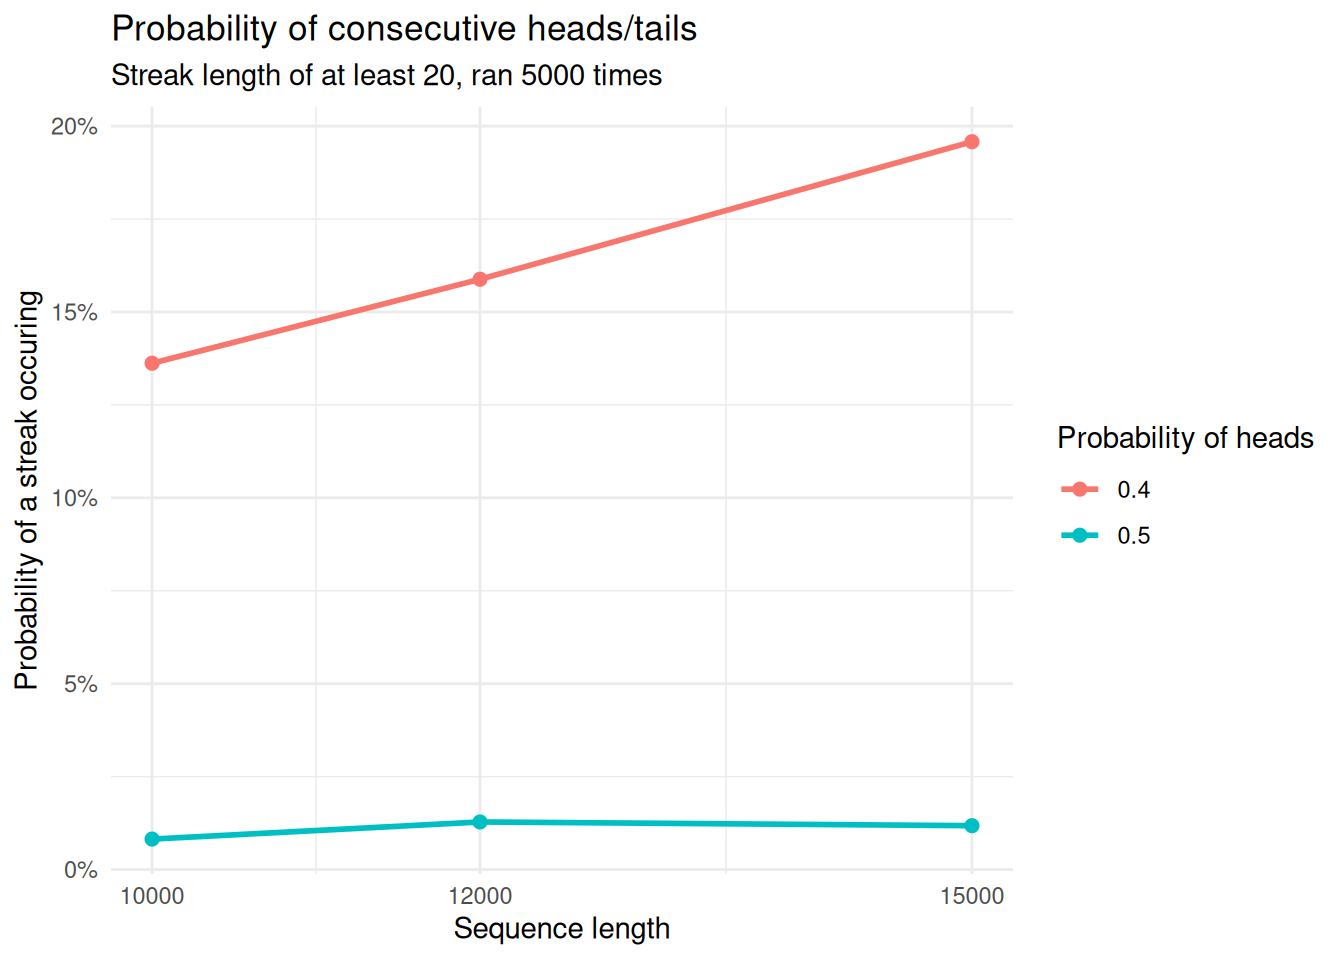
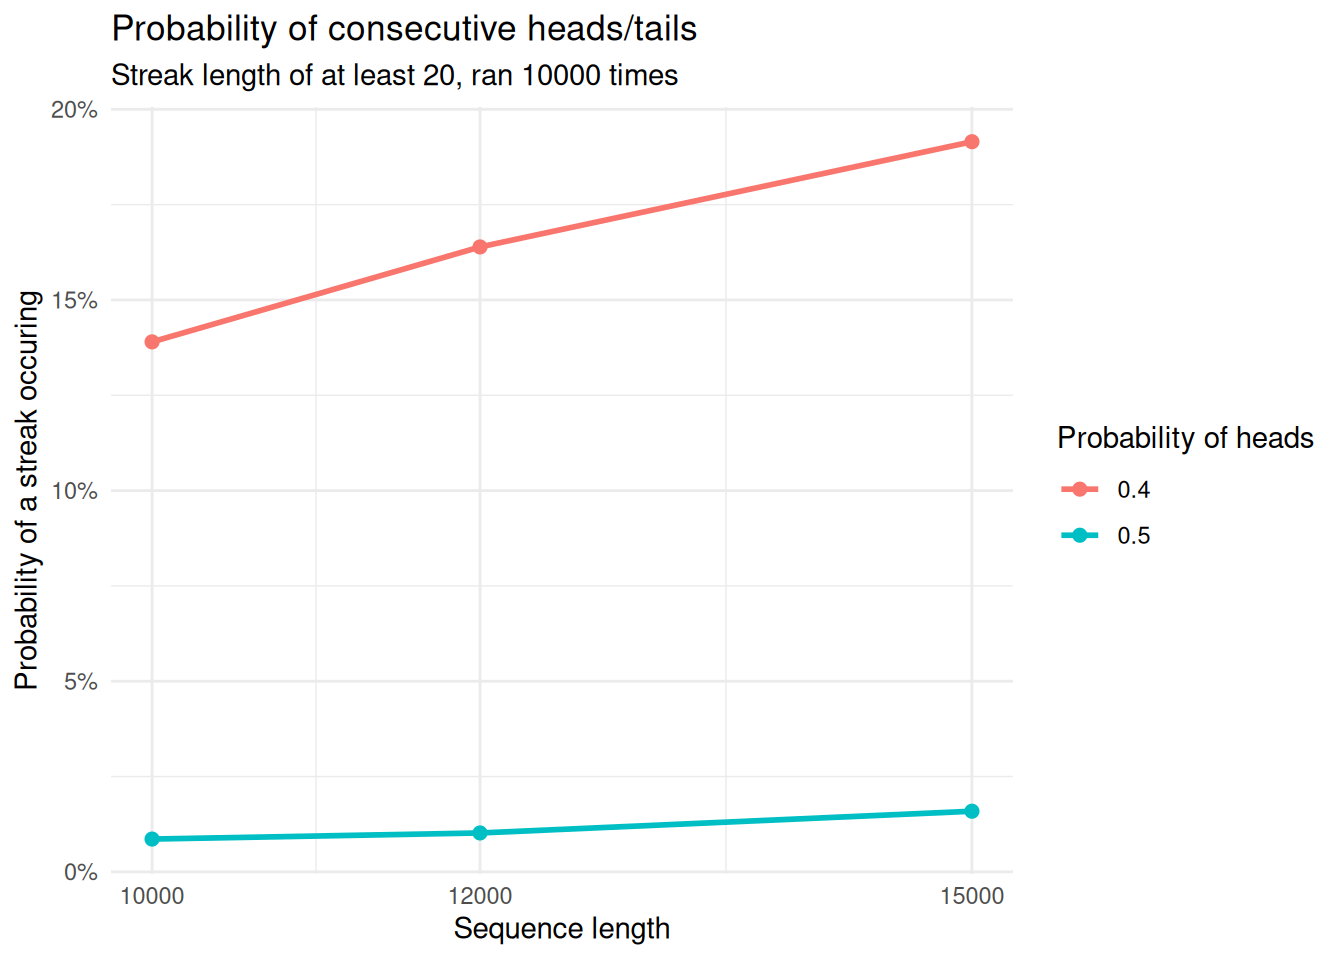
increased sample size

diff --git a/docs/binary.html b/docs/binary.html
@@ -265,7 +265,7 @@ window.Quarto = {
 <span id="cb1-5"><a href="#cb1-5" aria-hidden="true" tabindex="-1"></a>sequence_lengths <span class="ot">&lt;-</span> <span class="fu">c</span>(<span class="dv">10000</span>, <span class="dv">12000</span>, <span class="dv">15000</span>, <span class="dv">100000</span>)</span>
 <span id="cb1-6"><a href="#cb1-6" aria-hidden="true" tabindex="-1"></a>probabilities <span class="ot">&lt;-</span> <span class="fu">c</span>(<span class="fl">0.5</span>, <span class="fl">0.4</span>) </span>
 <span id="cb1-7"><a href="#cb1-7" aria-hidden="true" tabindex="-1"></a>k <span class="ot">&lt;-</span> <span class="dv">20</span></span>
-<span id="cb1-8"><a href="#cb1-8" aria-hidden="true" tabindex="-1"></a>num_trials <span class="ot">=</span> <span class="dv">5000</span></span>
+<span id="cb1-8"><a href="#cb1-8" aria-hidden="true" tabindex="-1"></a>num_trials <span class="ot">=</span> <span class="dv">10000</span></span>
 <span id="cb1-9"><a href="#cb1-9" aria-hidden="true" tabindex="-1"></a></span>
 <span id="cb1-10"><a href="#cb1-10" aria-hidden="true" tabindex="-1"></a>simulate_streak <span class="ot">&lt;-</span> <span class="cf">function</span>(n, prob_one, k) {</span>
 <span id="cb1-11"><a href="#cb1-11" aria-hidden="true" tabindex="-1"></a>  bits <span class="ot">&lt;-</span> <span class="fu">sample</span>(</span>
@@ -308,14 +308,14 @@ window.Quarto = {
 <pre><code># A tibble: 8 × 3
   sequence_length prob_one streak_probability
             &lt;dbl&gt;    &lt;dbl&gt;              &lt;dbl&gt;
-1           10000      0.5             0.0082
-2           10000      0.4             0.136 
-3           12000      0.5             0.0128
-4           12000      0.4             0.159 
-5           15000      0.5             0.0118
-6           15000      0.4             0.196 
-7          100000      0.5             0.0916
-8          100000      0.4             0.766 </code></pre>
+1           10000      0.5             0.0086
+2           10000      0.4             0.139 
+3           12000      0.5             0.0102
+4           12000      0.4             0.164 
+5           15000      0.5             0.0159
+6           15000      0.4             0.192 
+7          100000      0.5             0.0888
+8          100000      0.4             0.774 </code></pre>
 </div>
 <details class="code-fold">
 <summary>Code</summary>
@@ -353,7 +353,7 @@ window.Quarto = {
 </div>
 </div>
 <p>(Note: length 100,000 is excluded from the plot)</p>
-<p>We can see that, when the coin is fair, the probability of getting 20 heads/tails in a row is very low, below 5% for all rolls below 15,000. On the other hand, when the coin is biased, the probability of getting a 20 streak rises dramatically, hitting almost 20% for 15,000 rolls and 80% for 100,000 rolls.</p>
+<p>From the plot, we see that, when the coin is fair, the probability of getting 20 heads/tails in a row is below 5% for all rolls below 15,000. On the other hand, when the coin is biased, the probability of getting a 20 streak rises dramatically, hitting almost 20% for 15,000 rolls and 80% for 100,000 rolls.</p>
 <p>An interesting result is how much a relatively small bias can affect the probability of observing long streaks. A slightly biased coin (60/40) was more likely to produce a 20 streak in 10,000 runs than a nonbiased coin in 10x the amount of runs. From a gambler’s perspective, if you are an insane losing streak, it’s much more likely that the game was rigged against you rather than the fact that you were simply just unlucky.</p>
 
 
